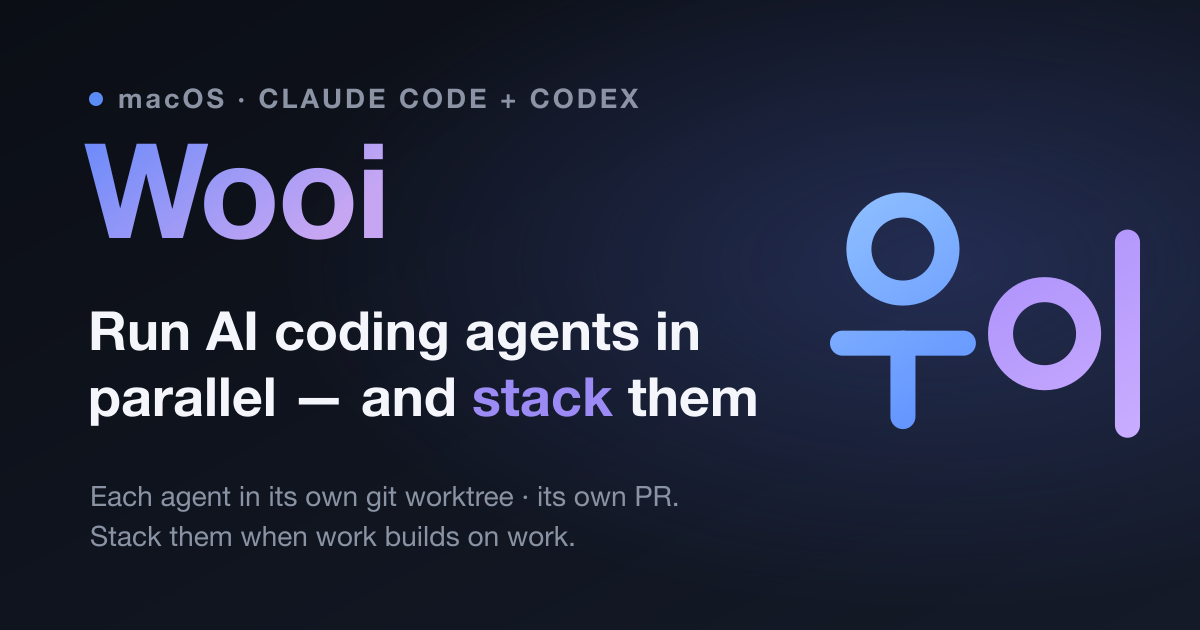
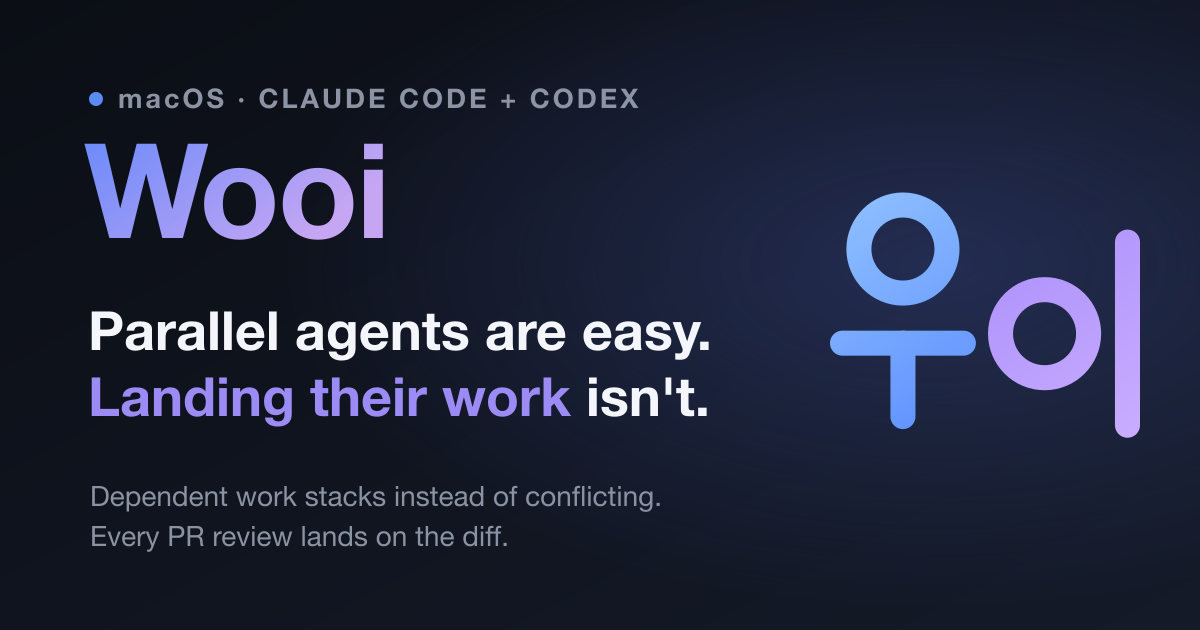
docs: reposition around what happens after parallelism
Running agents in isolated worktrees is table stakes — Conductor, Vibe
Kanban, Claude Squad and ~160 others in the awesome-agent-orchestrators
list all do it. Leading with parallelism puts Wooi in a crowd it cannot
win on features alone.

The two things nothing else in that list does are downstream of the
parallel run: dependent work that stacks (with the rebase + PR-base
cascade when a parent merges) and PR review that lands as editable
findings on the diff. Lead with those instead.

- hero: "Parallel agents are the easy part. Landing their work isn't."
- why: "One agent at a time is a bottleneck" -> "The bottleneck already
  moved", since the old frame sold the commodity half
- stack card now states the contrast: conflicts get cleaned up after the
  fact elsewhere, Wooi's answer is structural
- review card opens on review becoming the constraint
- concept step 03 "Ship a PR" -> "Land the work"
- title/description/OG rewritten for the terms people actually search
  ("Conductor alternative", "stacked PRs Claude Code"); og.svg + og.png
  regenerated so the social card matches the hero

Changed region(s): [[0.0617, 0.754, 0.555, 0.8746], [0.0925, 0.4825, 0.5858, 0.573], [0.0617, 0.6032, 0.6475, 0.6937]]

diff --git a/docs/index.html b/docs/index.html
@@ -3,20 +3,23 @@
   <head>
     <meta charset="utf-8" />
     <meta name="viewport" content="width=device-width, initial-scale=1" />
-    <title>Wooi — Run AI coding agents in parallel, and stack them</title>
+    <title>Wooi — Parallel Claude Code &amp; Codex agents, stacked PRs</title>
     <meta
       name="description"
-      content="Wooi is a macOS app for running AI coding agents in parallel — each in its own git worktree. When work builds on work, stack the agents and Wooi keeps the PR chain rebased and retargeted."
+      content="Every orchestrator runs Claude Code and Codex in parallel git worktrees. Wooi handles what they hand back: dependent work stacks instead of conflicting — rebasing the chain and retargeting PR bases when a parent merges — and every PR review lands as editable findings on the diff. Free, open source, macOS."
     />
 
     <!-- Open Graph / social -->
     <meta property="og:type" content="website" />
-    <meta property="og:title" content="Wooi — Run AI coding agents in parallel, and stack them" />
+    <meta
+      property="og:title"
+      content="Wooi — Parallel agents are easy. Landing their work isn't."
+    />
     <meta
       property="og:description"
-      content="Independent work runs in parallel worktrees. Dependent work stacks — and Wooi keeps the stack straight for you."
+      content="Every agent you add is one more branch to rebase and one more PR waiting on a reviewer. Wooi stacks dependent work so it never collides, and turns every review into a diff you work on."
     />
-    <meta property="og:image" content="https://youngminnnn.github.io/wooi/og.png?v=5" />
+    <meta property="og:image" content="https://youngminnnn.github.io/wooi/og.png?v=6" />
     <meta name="theme-color" content="#0a0b0d" />
 
     <!-- 파비콘은 16px 로 줄어들어 한글 "우이"(icon.svg)가 뭉개지므로 축약형 W 마크를 쓴다. -->
@@ -777,24 +780,26 @@
 
       <h1>
         <span class="en"
-          >Run AI coding agents in parallel — and <span class="grad">stack</span> them when work
-          builds on work</span
+          >Parallel agents are the easy part.
+          <span class="grad">Landing their work</span> isn't.</span
         >
         <span class="ko"
-          >AI 코딩 에이전트를 병렬로 — 이어지는 작업은 <span class="grad">스택</span>으로</span
+          >병렬 실행은 쉽습니다. 어려운 건 <span class="grad">머지까지</span>입니다.</span
         >
       </h1>
 
       <p class="subtitle">
         <span class="en"
-          >Independent work runs in parallel on macOS — each agent in its own isolated git worktree,
-          on its own branch, shipping its own PR. When work builds on work, stack the agents instead
-          and let Wooi keep the stack straight.</span
+          >Every agent you add is one more branch to rebase and one more PR waiting on a reviewer.
+          Wooi stacks dependent work so it never collides — rebasing the chain and retargeting PR
+          bases when a parent merges — and turns each review into a diff you work on, not a
+          transcript you read.</span
         >
         <span class="ko"
-          >독립적인 작업은 macOS 에서 병렬로 — 에이전트마다 격리된 git worktree 위에서, 각자 자기
-          브랜치로, 각자 자기 PR 로. 이어지는 작업은 앞선 작업 위에 쌓아 두면, 스택 정리는 Wooi 가
-          맡습니다.</span
+          >에이전트를 하나 더 돌릴 때마다 rebase 할 브랜치와 리뷰를 기다리는 PR 이 하나씩
+          늘어납니다. Wooi 는 이어지는 작업을 쌓아 애초에 부딪히지 않게 하고 — 부모가 병합되면
+          체인을 rebase 하고 PR base 를 옮깁니다 — 리뷰는 읽고 마는 기록이 아니라 그 위에서 작업하는
+          diff 로 만듭니다.</span
         >
       </p>
 
@@ -842,17 +847,19 @@
             <span class="en">Why Wooi</span><span class="ko">왜 Wooi 인가</span>
           </div>
           <h2>
-            <span class="en">One agent at a time is a bottleneck</span>
-            <span class="ko">에이전트를 하나씩 돌리는 건 병목입니다</span>
+            <span class="en">The bottleneck already moved</span>
+            <span class="ko">병목은 이미 옮겨갔습니다</span>
           </h2>
           <p class="section-sub">
             <span class="en"
-              >Wooi removes the wait. Every task gets its own sandbox, so agents never step on each
-              other — and you never lose track of what needs you.</span
+              >Running agents in isolated worktrees is table stakes now — every orchestrator does
+              it. The unsolved half is downstream: branches that were written in parallel and have
+              to land in sequence, and a review queue that grows as fast as the agents write.</span
             >
             <span class="ko"
-              >Wooi 는 그 기다림을 없앱니다. 작업마다 전용 샌드박스가 주어지므로 에이전트끼리
-              충돌하지 않고, 사용자 확인이 필요한 세션을 놓칠 일도 없습니다.</span
+              >격리된 worktree 에서 에이전트를 돌리는 건 이제 기본입니다 — 어느 오케스트레이터나
+              합니다. 안 풀린 쪽은 그 다음입니다. 병렬로 쓰였지만 순서대로 머지돼야 하는 브랜치들,
+              그리고 에이전트가 코드를 쓰는 속도만큼 쌓이는 리뷰 대기열.</span
             >
           </p>
         </div>
@@ -861,18 +868,22 @@
           <div class="why-card">
             <div class="emoji">🧱</div>
             <h3>
-              <span class="en">The stack is made of agents</span
-              ><span class="ko">스택의 단위가 에이전트</span>
+              <span class="en">Dependent work stacks instead of conflicting</span
+              ><span class="ko">이어지는 작업은 충돌하지 않고 쌓입니다</span>
             </h3>
             <p>
               <span class="en"
-                >Stack one agent's workspace on another's branch. When the parent merges, Wooi
-                rebases the children and retargets their PR bases — the rest of the stack stays
-                valid.</span
+                >Everywhere else, conflicts between parallel branches get cleaned up after they
+                happen. Wooi's answer is structural: stack one agent's workspace on another's
+                branch, and when the parent merges, Wooi rebases the children and retargets their PR
+                bases — so the rest of the stack stays valid instead of turning into a pile of
+                conflicts.</span
               >
               <span class="ko"
-                >에이전트 워크스페이스를 다른 워크스페이스의 브랜치 위에 쌓습니다. 부모가 병합되면
-                Wooi 가 자식들을 rebase 하고 PR base 를 옮깁니다. 남은 스택은 그대로 유효.</span
+                >다른 도구에서 병렬 브랜치 충돌은 터진 뒤에 수습합니다. Wooi 의 답은 구조적입니다.
+                에이전트 워크스페이스를 다른 워크스페이스의 브랜치 위에 쌓고, 부모가 병합되면 Wooi
+                가 자식들을 rebase 하고 PR base 를 옮깁니다. 남은 스택은 충돌 더미가 되는 대신
+                그대로 유효합니다.</span
               >
             </p>
           </div>
@@ -884,14 +895,15 @@
             </h3>
             <p>
               <span class="en"
-                >Every agent reviews PRs now; what's missing is somewhere to work the result.
-                Findings land inline on the diff they're about — edit, discard, post one or post the
-                batch.</span
+                >When agents write code faster, review becomes the constraint. Every agent can
+                review a PR; what's missing is somewhere to work the result. Findings land inline on
+                the diff they're about — edit, discard, post one or post the batch, straight to
+                GitHub.</span
               >
               <span class="ko"
-                >PR 리뷰는 이제 어떤 에이전트든 합니다. 없는 건 그 결과를 다룰 화면입니다. 지적이
-                해당 diff 줄 위에 바로 붙습니다. 고치고, 버리고, 낱개로든 한꺼번에든
-                게시합니다.</span
+                >에이전트가 코드를 빨리 쓸수록 병목은 리뷰로 옮겨갑니다. PR 리뷰는 어떤 에이전트든
+                합니다. 없는 건 그 결과를 다룰 화면입니다. 지적이 해당 diff 줄 위에 바로 붙습니다.
+                고치고, 버리고, 낱개로든 한꺼번에든 GitHub 에 그대로 게시합니다.</span
               >
             </p>
           </div>
@@ -1017,15 +1029,17 @@
           </div>
           <div class="concept-step">
             <div class="num">03</div>
-            <h3><span class="en">Ship a PR</span><span class="ko">PR 발행</span></h3>
+            <h3><span class="en">Land the work</span><span class="ko">머지까지</span></h3>
             <p>
               <span class="en"
-                >Review the diff against the base branch and open a GitHub PR in one click — while
-                other agents keep working.</span
+                >Open a GitHub PR in one click. If the task builds on another, stack it and Wooi
+                keeps the chain rebased and retargeted as parents merge — and review lands on the
+                diff, not in a chat log.</span
               >
               <span class="ko"
-                >다른 에이전트들이 계속 작업하는 동안, base 브랜치 대비 diff 를 검토하고 클릭 한
-                번으로 GitHub PR 을 엽니다.</span
+                >클릭 한 번으로 GitHub PR 을 엽니다. 앞선 작업 위에 얹히는 작업이면 스택으로 쌓아
+                두면, 부모가 병합될 때마다 Wooi 가 체인을 rebase 하고 base 를 옮깁니다. 리뷰는 채팅
+                로그가 아니라 diff 위에 붙습니다.</span
               >
             </p>
           </div>
@@ -1053,8 +1067,9 @@
         <div class="section-head">
           <div class="eyebrow"><span class="en">Features</span><span class="ko">기능</span></div>
           <h2>
-            <span class="en">Everything you need to run agents in parallel</span
-            ><span class="ko">에이전트를 병렬로 돌리는 데 필요한 모든 것</span>
+            <span class="en"
+              >Everything you need to run agents in parallel — and land what they write</span
+            ><span class="ko">에이전트를 병렬로 돌리고, 그 결과를 머지하기까지</span>
           </h2>
         </div>
 

diff --git a/README.md b/README.md
@@ -1,6 +1,6 @@
 # Wooi
 
-**Run AI coding agents in parallel — and stack them when work builds on work.**
+**Parallel agents are the easy part. Landing their work isn't.**
 
 **English** · [한국어](./README.ko.md)
 
@@ -11,18 +11,26 @@ parallel, each on its own isolated git worktree. Each task runs in its own dedic
 worktree + branch + agent session, and every session starts with **an empty input box
 and no automatic prompt** — nothing runs until you send your first message.
 
+Running agents in isolated worktrees is table stakes now. The unsolved half is
+downstream: **every agent you add is one more branch to rebase and one more PR waiting
+on a reviewer.** Wooi stacks dependent work so it never collides in the first place, and
+turns each review into a diff you work on instead of a transcript you read.
+
 > **Agent support** — Since v1.4.0, Wooi supports both **Claude Code** (via the
 > Claude Agent SDK) and **OpenAI Codex** (via the Codex CLI). Choose an agent when
 > creating a workspace; that workspace keeps the selected agent for its lifetime.
 
 ## Why Wooi
 
-- 🧱 **The stack is made of agents** — stack one agent's workspace on another's branch.
-  When the parent merges, Wooi rebases the children and retargets their PR bases, so the
-  rest of the stack stays valid.
-- 🔍 **PR review, on the diff** — every agent reviews PRs now; the part that's missing is
-  somewhere to work the result. Findings land inline on the diff they're about, each one
-  editable, discardable, and postable on its own or as a batch.
+- 🧱 **Dependent work stacks instead of conflicting** — everywhere else, conflicts
+  between parallel branches get cleaned up after they happen. Wooi's answer is
+  structural: stack one agent's workspace on another's branch, and when the parent
+  merges, Wooi rebases the children and retargets their PR bases — so the rest of the
+  stack stays valid instead of turning into a pile of conflicts.
+- 🔍 **PR review, on the diff** — when agents write code faster, review becomes the
+  constraint. Every agent can review a PR; what's missing is somewhere to work the
+  result. Findings land inline on the diff they're about, each one editable,
+  discardable, and postable on its own or as a batch.
 - 🧵 **True parallelism** — kick off a refactor, a feature, and a bugfix at the same
   time, and watch all three from one sidebar.
 - 🔒 **Isolated by default** — a separate worktree + branch per task means agents never
